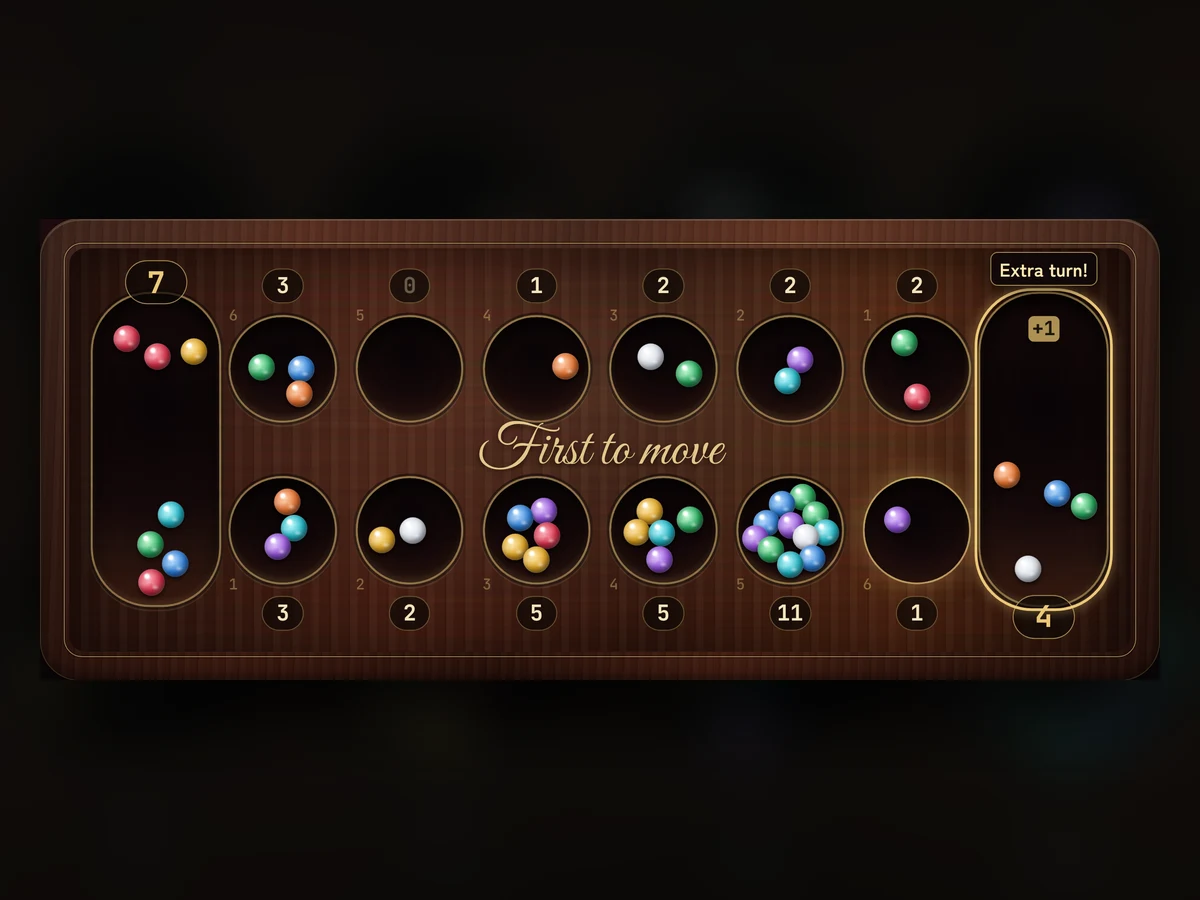
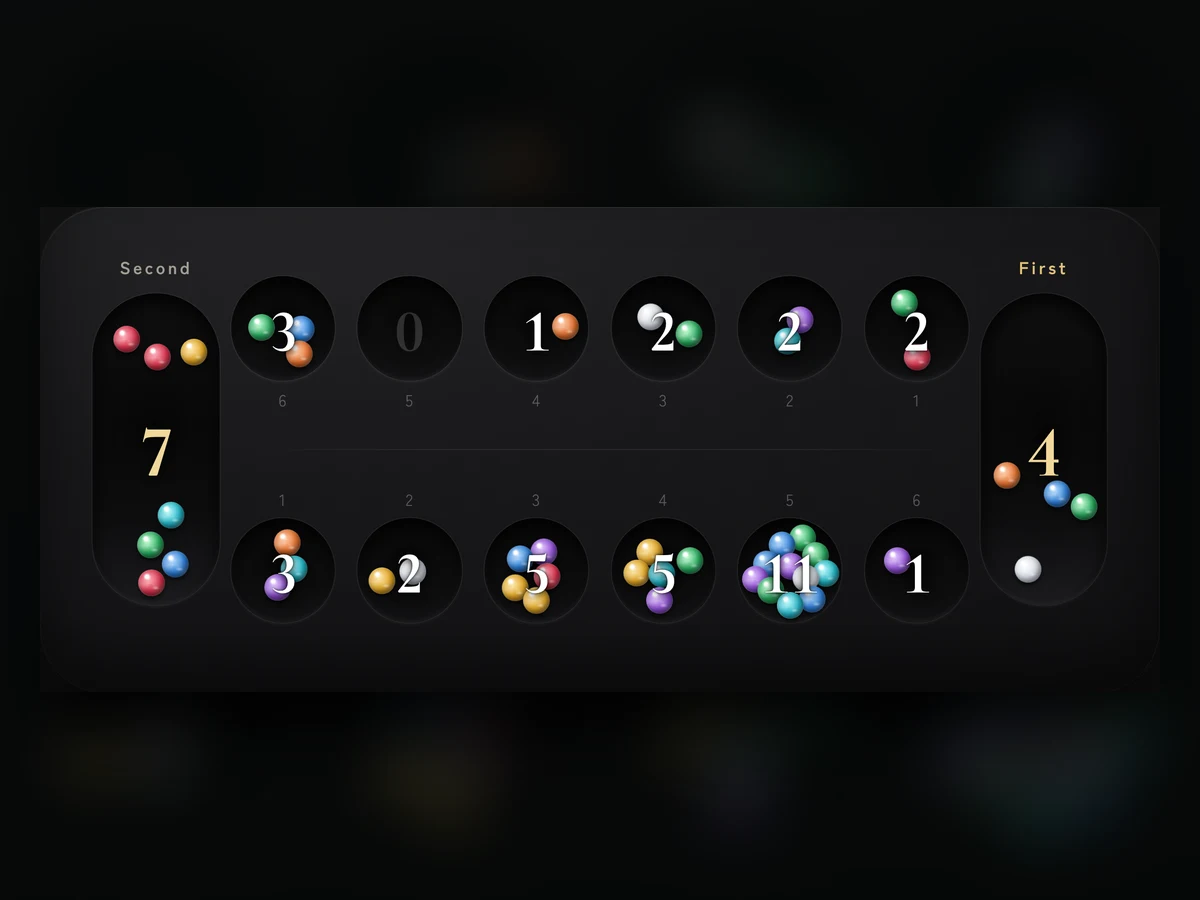
Mancala: black-luxe redesign after the original (stacked PC layout, counts inside pits), in-bowl rolling physics, smoother phone sowing, wider messages
Claude-Session: https://claude.ai/code/session_01Ky461YoVpACBBys6RwWYFn

diff --git a/mancala/app.js b/mancala/app.js
@@ -133,7 +133,7 @@ function sWrong() { const a = ctx(); if (!a) return; const t0 = a.currentTime; t
 
 // ====================================================================== board geometry
 const boardEl = $('#board'), slotsEl = $('#slots'), seedsEl = $('#seeds'), fxEl = $('#fx');
-const BW = 9.2, BH = 3.5;
+const BW = 9.2, BH = 3.7;
 let vert = false, U = 60;
 const isStore = i => i === 6 || i === 13;
 const ownerOf = i => i <= 6 ? 0 : 1;
@@ -141,18 +141,19 @@ const pitIndex = (side, k) => (side ? 7 : 0) + k;
 function bottomSide() { return (settings.mode === 'ai' && !lesson && !puzzle) ? game.human : 0; }
 function slotUV(i) {
   const B = bottomSide(), own = ownerOf(i), bottom = own === B;
-  if (isStore(i)) return { x: bottom ? 8.45 : 0.75, y: 1.75, bottom };
+  if (isStore(i)) return { x: bottom ? 8.45 : 0.75, y: 1.85, bottom };
   const k = own ? i - 7 : i;
-  return bottom ? { x: 1.85 + 1.1 * k, y: 2.45, bottom } : { x: 7.35 - 1.1 * k, y: 1.05, bottom };
+  return bottom ? { x: 1.85 + 1.1 * k, y: 2.9, bottom } : { x: 7.35 - 1.1 * k, y: 0.8, bottom };
 }
 // phone portrait: the board is turned a quarter counter-clockwise, so sowing stays counter-clockwise,
 // your pits are the right column and your store is at the top
 const toPx = (x, y) => vert ? [y * U, (BW - x) * U] : [x * U, y * U];
 const offPx = (dx, dy) => vert ? [dy * U, -dx * U] : [dx * U, dy * U];
 function slotPx(i) { const p = slotUV(i); return toPx(p.x, p.y); }
-let slotEls = [], badgeEls = [], pitNoEls = [];
+let slotEls = [], badgeEls = [], pitNoEls = [], storeLbl = [];
 function buildBoard() {
   slotsEl.innerHTML = ''; slotEls = []; badgeEls = []; pitNoEls = [];
+  storeLbl = [0, 1].map(() => { const d = document.createElement('div'); d.className = 'slabel'; slotsEl.appendChild(d); return d; });
   for (let i = 0; i < 14; i++) {
     const s = document.createElement('div'); s.className = 'slot ' + (isStore(i) ? 'store' : 'pit'); s.dataset.i = i;
     slotsEl.appendChild(s); slotEls.push(s);
@@ -176,11 +177,11 @@ function layout() {
     s.style.left = x + 'px'; s.style.top = y + 'px';
     if (isStore(i)) { const w = 1.1 * U, h = 2.7 * U; s.style.width = (vert ? h : w) + 'px'; s.style.height = (vert ? w : h) + 'px'; }
     else { s.style.width = s.style.height = 0.9 * U + 'px'; }
-    const by = isStore(i) ? (p.bottom ? 3.2 : 0.3) : (p.bottom ? 3.17 : 0.33);
-    const [bx, byy] = toPx(p.x, by); badgeEls[i].style.left = bx + 'px'; badgeEls[i].style.top = byy + 'px';
-    if (pitNoEls[i]) { const [nx, ny] = toPx(p.x - 0.43, p.y + (p.bottom ? 0.47 : -0.47)); pitNoEls[i].style.left = nx + 'px'; pitNoEls[i].style.top = ny + 'px'; }
+    badgeEls[i].style.left = x + 'px'; badgeEls[i].style.top = (y + 0.03 * U) + 'px';   // the count sits inside the cup, over the gems
+    if (pitNoEls[i]) { const [nx, ny] = toPx(p.x, p.y + (p.bottom ? -0.62 : 0.62)); pitNoEls[i].style.left = nx + 'px'; pitNoEls[i].style.top = ny + 'px'; }
   }
-  const [tx, ty] = toPx(4.6, 1.76); const tl = $('#turnLbl'); tl.style.top = ty + 'px';
+  const [tx, ty] = toPx(4.6, 1.85); const tl = $('#turnLbl'); tl.style.top = ty + 'px';
+  [6, 13].forEach((st, j) => { const p = slotUV(st), [lx, ly] = toPx(p.x, 0.26); storeLbl[j].style.left = lx + 'px'; storeLbl[j].style.top = ly + 'px'; storeLbl[j].dataset.st = st; });
   for (let i = 0; i < 14; i++) for (const s of seeds[i]) posSeed(s);
   renderFx();
 }
@@ -241,7 +242,7 @@ function syncSeeds(b) {
   for (const s of pool) s.el.remove();
   setBadges(b);
 }
-function resetSeeds() { for (let i = 0; i < 14; i++) { for (const s of seeds[i]) s.el.remove(); seeds[i] = []; } gemRs = 7; }
+function resetSeeds() { stopPhysics(); for (let i = 0; i < 14; i++) { for (const s of seeds[i]) s.el.remove(); seeds[i] = []; } gemRs = 7; }
 let shownCounts = new Int8Array(14);
 function setBadges(b, popAt) {
   for (let i = 0; i < 14; i++) {
@@ -259,16 +260,31 @@ let wakers = new Set();
 function nap(ms) { return new Promise(r => { const f = () => { clearTimeout(tm); wakers.delete(f); r(); }; const tm = setTimeout(f, ms); wakers.add(f); }); }
 function fly(s, to, dur, lift) {
   const [x0, y0] = seedXY(s);
-  if (to.slot !== undefined) { s.slot = to.slot; s.x = to.x; s.y = to.y; }
+  if (to.slot !== undefined) { s.slot = to.slot; s.x = to.x; s.y = to.y; s.vx = 0; s.vy = 0; }
   const [x1, y1] = seedXY(s);
-  if (!motionOn() || !s.el.animate) { posSeed(s); return; }
-  const mx = (x0 + x1) / 2, my = (y0 + y1) / 2 - (lift || 0.45) * U;
+  if (!s.el.animate) { posSeed(s); return; }
   s.el.classList.add('fly');
   const done = () => { s.el.classList.remove('fly'); posSeed(s); };
-  const a = s.el.animate([
-    { transform: `translate(${x0}px,${y0}px) scale(1)` },
-    { transform: `translate(${mx}px,${my}px) scale(1.35)`, offset: 0.5 },
-    { transform: `translate(${x1}px,${y1}px) scale(1)` }], { duration: dur, easing: 'cubic-bezier(.35,.1,.3,1)' });
+  let kf;
+  if (!motionOn()) {   // reduced motion: a short straight glide, no hop
+    kf = [{ transform: `translate(${x0}px,${y0}px)` }, { transform: `translate(${x1}px,${y1}px)` }];
+    dur = Math.min(dur, 220);
+  } else {
+    let mx = (x0 + x1) / 2, my = (y0 + y1) / 2;
+    const h = (lift || 0.45) * U;
+    if (vert) {
+      // upright board: the arc bulges sideways, away from the middle of the board
+      const dx = x1 - x0, dy = y1 - y0, L = Math.hypot(dx, dy) || 1; let nx = -dy / L, ny = dx / L;
+      const cx = boardEl.clientWidth / 2; if ((mx - cx) * nx < 0) { nx = -nx; ny = -ny; }
+      mx += nx * h * 0.8; my += ny * h * 0.8 - h * 0.25;
+    } else my -= h;
+    kf = [
+      { transform: `translate(${x0}px,${y0}px) scale(1)`, easing: 'cubic-bezier(.3,.0,.5,1)' },
+      { transform: `translate(${mx}px,${my}px) scale(1.32)`, offset: 0.48, easing: 'cubic-bezier(.5,0,.75,1)' },
+      { transform: `translate(${x1}px,${y1}px) scale(.94)`, offset: 0.86, easing: 'ease-out' },
+      { transform: `translate(${x1}px,${y1}px) scale(1)` }];   // soft landing
+  }
+  const a = s.el.animate(kf, { duration: dur });
   s.el.style.transform = `translate(${x1}px,${y1}px)`;
   a.onfinish = done; a.oncancel = done;
 }
@@ -287,6 +303,7 @@ let animTok = 0;
 async function animateMove(b, side, k, rules) {
   const tr = E.trace(b, side, k, rules);
   lastAnimBoard = tr.board;
+  stopPhysics();
   const tok = ++animTok;
   if (!animOn()) { syncSeeds(tr.board); sDrop(false); return tr; }
   animating = true; boardEl.classList.add('animating');
@@ -376,36 +393,82 @@ function showBanner(text, sub, cls) {
 }
 
 // ====================================================================== gems roll when brushed (mouse over a pit, or a finger sliding across)
+// Each touched cup gets a tiny 2-D simulation: the brush gives nearby gems a push, then they roll with friction,
+// bounce off each other and off the cup wall (a circle for pits, a pill for stores) and come to rest.
 let lastBrush = null;
-function brushAt(x, y, now) {
-  if (!motionOn() || animating || !U) return;
-  const r = boardEl.getBoundingClientRect(), bx = x - r.left, by = y - r.top;
-  let vx = 0, vy = 0;
-  if (lastBrush && now - lastBrush.t < 120) { vx = bx - lastBrush.x; vy = by - lastBrush.y; }
-  lastBrush = { x: bx, y: by, t: now };
-  const sp = Math.hypot(vx, vy); if (sp < 0.5) return;
-  const reach = 0.3 * U;
-  for (let i = 0; i < 14; i++) for (const s of seeds[i]) {
-    if (s.el.classList.contains('fly')) continue;
-    const [sx, sy] = seedXY(s), dx = sx - bx, dy = sy - by, d = Math.hypot(dx, dy);
-    if (d > reach || (s.jt && now - s.jt < 260)) continue;
-    s.jt = now;
-    const k = (1 - d / reach) * Math.min(1, sp / 14), push = 0.075 * U * k;
-    // roll along the brush direction, a little away from the finger
-    const ux = (vx / sp) * 0.75 + (dx / (d || 1)) * 0.25, uy = (vy / sp) * 0.75 + (dy / (d || 1)) * 0.25;
-    const px = ux * push, py = uy * push, rot = (vx >= 0 ? 1 : -1) * 120 * k;
-    const base = `translate(${sx}px,${sy}px)`;
-    s.el.animate([
-      { transform: base + ' rotate(0deg)' },
-      { transform: `translate(${sx + px}px,${sy + py}px) rotate(${rot}deg)`, offset: 0.3 },
-      { transform: `translate(${sx - px * 0.35}px,${sy - py * 0.35}px) rotate(${-rot * 0.4}deg)`, offset: 0.62 },
-      { transform: `translate(${sx + px * 0.12}px,${sy + py * 0.12}px) rotate(${rot * 0.25}deg)`, offset: 0.84 },
-      { transform: base + ' rotate(0deg)' }], { duration: 620, easing: 'ease-out' });
+const physSlots = new Set();
+let physRAF = 0, physLast = 0;
+function slotAtPx(bx, by) {
+  for (let i = 0; i < 14; i++) {
+    const [cx, cy] = slotPx(i), ox = bx - cx, oy = by - cy;
+    const lx = vert ? -oy / U : ox / U, ly = vert ? ox / U : oy / U;   // offset in the horizontal frame
+    if (isStore(i) ? (Math.abs(lx) < 0.56 && Math.abs(ly) < 1.36) : Math.hypot(lx, ly) < 0.47) return { i, lx, ly };
   }
+  return null;
 }
+function brushAt(x, y, now) {
+  if (!motionOn() || animating || !U) { lastBrush = null; return; }
+  const r = boardEl.getBoundingClientRect(), bx = x - r.left, by = y - r.top;
+  const prev = lastBrush; lastBrush = { x: bx, y: by, t: now };
+  if (!prev || now - prev.t > 120 || now === prev.t) return;
+  const dt = (now - prev.t) / 1000;
+  let vx = (bx - prev.x) / U / dt, vy = (by - prev.y) / U / dt;      // u per second, screen frame
+  if (vert) { const hx = -vy, hy = vx; vx = hx; vy = hy; }           // to the horizontal frame
+  const sp = Math.hypot(vx, vy); if (sp < 0.15) return;
+  if (sp > 6) { vx *= 6 / sp; vy *= 6 / sp; }
+  const hit = slotAtPx(bx, by); if (!hit) return;
+  let touched = false;
+  for (const s of seeds[hit.i]) {
+    if (s.el.classList.contains('fly')) continue;
+    const dx = s.x - hit.lx, dy = s.y - hit.ly, d = Math.hypot(dx, dy);
+    if (d > 0.24) continue;
+    const k = 1 - d / 0.24;
+    s.vx = (s.vx || 0) + vx * 0.5 * k + (dx / (d || 1)) * 0.6 * k;
+    s.vy = (s.vy || 0) + vy * 0.5 * k + (dy / (d || 1)) * 0.6 * k;
+    touched = true;
+  }
+  if (touched) { physSlots.add(hit.i); if (!physRAF) { physLast = performance.now(); physRAF = requestAnimationFrame(physStep); } }
+}
+function physStep(now) {
+  const dt = Math.min(0.033, (now - physLast) / 1000); physLast = now;
+  for (const i of [...physSlots]) {
+    const list = seeds[i], st = isStore(i), n = list.length;
+    const d = Math.min(0.215, Math.sqrt((st ? 0.8 * 2.38 : Math.PI * 0.31 * 0.31) / (Math.max(1, n) * 0.92)));
+    let moving = false;
+    for (const s of list) {
+      s.vx = s.vx || 0; s.vy = s.vy || 0;
+      // carved bowl: a gentle pull toward the centre, rolling friction
+      if (!st) { s.vx -= s.x * 2.2 * dt; s.vy -= s.y * 2.2 * dt; }
+      const f = Math.exp(-2.6 * dt); s.vx *= f; s.vy *= f;
+      s.x += s.vx * dt; s.y += s.vy * dt;
+    }
+    for (let a = 0; a < n; a++) for (let b = a + 1; b < n; b++) {   // gem-to-gem collisions
+      const A = list[a], B = list[b], dx = B.x - A.x, dy = B.y - A.y, dd = Math.hypot(dx, dy);
+      if (dd >= d || dd === 0) continue;
+      const nx = dx / dd, ny = dy / dd, ov = (d - dd) / 2;
+      A.x -= nx * ov; A.y -= ny * ov; B.x += nx * ov; B.y += ny * ov;
+      const rv = (B.vx - A.vx) * nx + (B.vy - A.vy) * ny;
+      if (rv < 0) { const j = -0.85 * rv; A.vx -= j * nx; A.vy -= j * ny; B.vx += j * nx; B.vy += j * ny; }
+    }
+    for (const s of list) {                                          // the wall of the cup
+      if (st) {
+        if (Math.abs(s.x) > 0.4) { s.x = Math.sign(s.x) * 0.4; s.vx *= -0.45; }
+        if (Math.abs(s.y) > 1.19) { s.y = Math.sign(s.y) * 1.19; s.vy *= -0.45; }
+      } else {
+        const r = Math.hypot(s.x, s.y);
+        if (r > 0.31) { const nx = s.x / r, ny = s.y / r; s.x = nx * 0.31; s.y = ny * 0.31; const vn = s.vx * nx + s.vy * ny; if (vn > 0) { s.vx -= 1.5 * vn * nx; s.vy -= 1.5 * vn * ny; } }
+      }
+      if (Math.hypot(s.vx, s.vy) > 0.02) moving = true; else { s.vx = 0; s.vy = 0; }
+      posSeed(s);
+    }
+    if (!moving) physSlots.delete(i);
+  }
+  physRAF = physSlots.size ? requestAnimationFrame(physStep) : 0;
+}
+function stopPhysics() { physSlots.clear(); if (physRAF) cancelAnimationFrame(physRAF); physRAF = 0; for (let i = 0; i < 14; i++) for (const s of seeds[i]) { s.vx = 0; s.vy = 0; } }
 boardEl.addEventListener('pointermove', e => { if (e.pointerType === 'mouse') brushAt(e.clientX, e.clientY, performance.now()); });
 boardEl.addEventListener('pointerleave', () => { lastBrush = null; });
-// touchmove keeps firing while the page scrolls, so a finger sliding over the pits rolls the gems without blocking scrolling
+// touchmove keeps firing while the page scrolls, so a finger sliding over the cups rolls the gems without blocking scrolling
 boardEl.addEventListener('touchmove', e => { const tc = e.touches[0]; if (tc) brushAt(tc.clientX, tc.clientY, performance.now()); }, { passive: true });
 boardEl.addEventListener('touchend', () => { lastBrush = null; }, { passive: true });
 
@@ -442,14 +505,14 @@ function drawPreview(i) {
   const tr = E.trace(p.b, p.side, i % 7, game.rules);
   const cnt = new Map(), relays = [];
   for (const ev of tr.events) { if (ev.t === 'drop') cnt.set(ev.at, (cnt.get(ev.at) || 0) + 1); if (ev.t === 'pick' && ev.relay) relays.push(ev.at); }
-  for (const [at, n] of cnt) { const u = slotUV(at); fxAt(at, isStore(at) ? 0 : 0.31, isStore(at) ? (u.bottom ? -1.05 : 1.05) : (u.bottom ? 0.3 : -0.3), 'chip', '+' + n); }
+  for (const [at, n] of cnt) { const u = slotUV(at); fxAt(at, isStore(at) ? 0 : 0.33, isStore(at) ? (u.bottom ? 1.05 : -1.05) : (u.bottom ? -0.3 : 0.3), 'chip', '+' + n); }
   relays.forEach((at, j) => fxAt(at, -0.3, 0.3, 'chip relay', '↻' + (j + 1)));
-  if (tr.over) { fxRing(tr.land, ''); const u = slotUV(tr.land); fxAt(tr.land, 0, u.bottom ? -0.62 : -0.55, 'tip plain', t('pv.end')); return; }
+  const tipAt = (at, cls, txt) => { const u = slotUV(at); if (isStore(at)) return fxAt(at, vert ? (u.bottom ? -1.55 : 1.55) : 0, vert ? 0 : -0.2, cls, txt); return fxAt(at, 0, u.bottom ? -0.52 : 0.52, cls + (u.bottom ? '' : ' below'), txt); };
+  if (tr.over) { fxRing(tr.land, ''); tipAt(tr.land, 'tip plain', t('pv.end')); return; }
   fxRing(tr.land, tr.extra ? 'ok' : tr.cap ? '' : '');
   const u = slotUV(tr.land);
-  const ty = isStore(tr.land) ? -1.42 : -0.55;
-  if (tr.extra) { if (vert && isStore(tr.land)) fxAt(tr.land, u.bottom ? -1.55 : 1.55, 0, 'tip', t('pv.extra')); else fxAt(tr.land, 0, ty, 'tip', t('pv.extra')); }
-  else if (tr.cap) { fxRing(tr.capFrom, 'cap'); fxAt(tr.land, 0, u.bottom ? ty : ty, 'tip cap', t('pv.cap', { n: tr.cap + (E.RULES[game.rules].cap === 2 ? 1 : 0) })); }
+  if (tr.extra) tipAt(tr.land, 'tip', t('pv.extra'));
+  else if (tr.cap) { fxRing(tr.capFrom, 'cap'); tipAt(tr.land, 'tip cap', t('pv.cap', { n: tr.cap + (E.RULES[game.rules].cap === 2 ? 1 : 0) })); }
 }
 function setHover(i) {
   hoverPit = i;
@@ -504,7 +567,12 @@ function renderPlates(b) {
     $('#stat' + w).textContent = st;
   });
 }
+function renderStoreLabels() {
+  if (!storeLbl.length) return;
+  for (const d of storeLbl) { const st = +d.dataset.st, side = st === 6 ? 0 : 1; d.textContent = shortName(side); d.classList.toggle('me', !puzzle && !lesson ? (settings.mode === 'ai' ? side === game.human : side === 0) : side === 0); }
+}
 function renderTurnLabel() {
+  renderStoreLabels();
   const p = shownPos(), el = $('#turnLbl');
   let txt = '';
   if (p.over) { const a = p.b[6], o = p.b[13]; txt = a === o ? t('res.draw') : (settings.mode === 'ai' && !lesson && !puzzle) ? ((a > o ? 0 : 1) === game.human ? t('res.youWin') : t('res.aiWin')) : t('res.pWin', { c: shortName(a > o ? 0 : 1) }); }
@@ -1440,8 +1508,8 @@ function fixSize() {
   if (W === fixW && portrait === fixPortrait) return;   // height-only change (browser bars): keep the size
   fixW = W; fixPortrait = portrait;
   root.setProperty('--vh', H + 'px');
-  if (portrait) root.setProperty('--u', Math.floor(Math.min((W - 24) / 4, (H - 172) / 9.7, 100)) + 'px');
-  else if (H <= 560 || W <= 900) root.setProperty('--u', Math.floor(Math.min((H - 20 - 2 * 32 - 16) / 4, (W - 300) / 9.7, 110)) + 'px');
+  if (portrait) root.setProperty('--u', Math.floor(Math.min((W - 24) / 4.2, (H - 172) / 9.7, 100)) + 'px');
+  else if (H <= 560 || W <= 900) root.setProperty('--u', Math.floor(Math.min((H - 20 - 2 * 32 - 16) / 4.2, (W - 300) / 9.7, 110)) + 'px');
   else root.removeProperty('--u');
 }
 fixSize();

diff --git a/mancala/index.html b/mancala/index.html
@@ -27,8 +27,8 @@
   --gap: clamp(24px, 3vw, 48px);
   --plate: 50px;
   /* the board is 9.2u x 3.5u inside a 0.25u frame */
-  --u: min((var(--vh) - var(--pad) * 2 - var(--plate) * 2 - 28px) / 4, (100vw - var(--pad) * 2 - var(--gap) - 380px) / 9.7, 118px);
-  --bw: calc(var(--u) * 9.2); --bh: calc(var(--u) * 3.5);
+  --u: min((var(--vh) - var(--pad) * 2 - var(--plate) * 2 - 28px) / 4.2, (100vw - var(--pad) * 2 - var(--gap) - 380px) / 9.7, 118px);
+  --bw: calc(var(--u) * 9.2); --bh: calc(var(--u) * 3.7);
 }
 *{box-sizing:border-box;margin:0;padding:0}
 @supports (height:100dvh){:root{--vh:100dvh}}
@@ -389,7 +389,7 @@ bdi{unicode-bidi:isolate}
 }
 @media (max-aspect-ratio: 1/1) and (pointer: coarse){
   /* phone portrait: the board stands upright (stores at top and bottom) */
-  :root{--plate:40px;--u:min((100vw - 24px) / 4, (var(--vh) - 196px) / 9.7, 100px);--bw:calc(var(--u) * 3.5);--bh:calc(var(--u) * 9.2)}
+  :root{--plate:40px;--u:min((100vw - 24px) / 4.2, (var(--vh) - 196px) / 9.7, 100px);--bw:calc(var(--u) * 3.7);--bh:calc(var(--u) * 9.2)}
   html,body{overflow-x:hidden;overflow-y:auto;height:auto}
   .app{display:flex;flex-direction:column;align-items:center;justify-content:flex-start;gap:8px;padding:10px 10px max(16px, env(safe-area-inset-bottom));height:auto;min-height:var(--vh)}
   .side, .side-in{display:contents}
@@ -418,7 +418,7 @@ bdi{unicode-bidi:isolate}
 }
 @media (min-aspect-ratio: 1/1) and (pointer: coarse) and (max-height: 560px), (min-aspect-ratio: 1/1) and (pointer: coarse) and (max-width: 900px){
   /* phone landscape */
-  :root{--plate:32px;--u:min((var(--vh) - 20px - 2 * var(--plate) - 16px) / 4, (100vw - 300px) / 9.7, 110px)}
+  :root{--plate:32px;--u:min((var(--vh) - 20px - 2 * var(--plate) - 16px) / 4.2, (100vw - 300px) / 9.7, 110px)}
   .app{padding:10px max(14px, env(safe-area-inset-right)) 10px max(14px, env(safe-area-inset-left));gap:16px;grid-template-columns:auto minmax(220px, 340px)}
   .board-area{gap:8px}
   .plate{padding:0 10px;gap:8px;border-radius:9px}
@@ -452,38 +452,33 @@ bdi{unicode-bidi:isolate}
 .brand a.series:hover{opacity:1;color:var(--accent)}
 .brand:has(.brand-l){align-items:flex-end}
 @media (pointer: coarse) and (max-width: 900px){ .brand a.series{display:none} .brand:has(.brand-l){align-items:center} }
-/* ================================================================ PC: board across the full width, cards below */
+/* ================================================================ PC: player bars around the board, menu row, two cards */
 @media not all and (pointer: coarse){
   :root{
-    --plate:40px; --tb:50px;
-    --R:clamp(150px, calc(var(--vh) * .2), 200px);
-    --u:min((100vw - 56px) / 9.7, (var(--vh) - 28px - 48px - var(--plate) - 8px - 3 * 14px - var(--tb) - var(--R)) / 4, 136px);
+    --plate:clamp(34px, calc(var(--vh) * .046), 42px); --tb:clamp(40px, calc(var(--vh) * .054), 48px); --C:clamp(118px, calc(var(--vh) * .19), 176px);
+    --u:min((100vw - 64px) / 9.7, (var(--vh) - 24px - 50px - 2 * var(--plate) - 16px - 3 * 12px - var(--tb) - var(--C)) / 4.2, 132px);
   }
-  .app{display:grid;width:min(calc(var(--u) * 9.7), calc(100vw - 32px));margin:0 auto;padding:14px 0;gap:14px;height:var(--vh);
-    grid-template-columns:repeat(3,minmax(0,1fr));grid-template-rows:auto auto var(--tb) minmax(0,1fr);
-    grid-template-areas:"brand brand brand" "board board board" "ctrl ctrl ctrl" "eval eval kifu";align-content:stretch;justify-content:stretch}
-  .app:has(.review-card.show){grid-template-areas:"brand brand brand" "board board board" "ctrl ctrl ctrl" "eval rv kifu"}
+  html,body{overflow-y:auto}
+  .app{display:grid;width:min(calc(var(--u) * 9.7), calc(100vw - 32px));margin:0 auto;padding:12px 0;gap:12px;height:auto;min-height:var(--vh);
+    grid-template-columns:repeat(6,minmax(0,1fr));grid-template-rows:auto auto var(--tb) var(--C);
+    grid-template-areas:"brand brand brand brand brand brand" "board board board board board board" "ctrl ctrl ctrl ctrl ctrl ctrl" "eval eval eval kifu kifu kifu";align-content:center}
+  .app:has(.review-card.show){grid-template-areas:"brand brand brand brand brand brand" "board board board board board board" "ctrl ctrl ctrl ctrl ctrl ctrl" "eval eval rv rv kifu kifu"}
   .side,.side-in{display:contents}
-  .brand{grid-area:brand;align-items:flex-end!important;padding:0 4px}
-  .brand h1{font-size:34px!important}
-  .board-area{grid-area:board;display:grid;grid-template-columns:1fr 1fr;grid-template-areas:"pt pb" "fr fr";gap:8px 14px}
-  #plateTop{grid-area:pt}
-  #plateBot{grid-area:pb;flex-direction:row-reverse}
-  #plateBot .pstat{margin-left:0;margin-right:auto}
-  #plateBot .pscore{text-align:left}
-  .frame{grid-area:fr;justify-self:center}
-  .controls{grid-area:ctrl;display:flex;gap:8px;padding:6px;align-items:stretch;align-self:stretch;min-height:0}
-  .controls .btn{flex:1;flex-direction:row;justify-content:center;gap:7px;padding:0 6px;font-size:12.5px;border-radius:10px}
+  .brand{grid-area:brand;align-items:flex-end!important;padding:0 2px}
+  .brand h1{font-size:36px!important}
+  .board-area{grid-area:board;display:flex;flex-direction:column;gap:8px}
+  .frame{align-self:center}
+  .controls{grid-area:ctrl;display:flex;gap:8px;padding:0;background:none!important;border:none!important;box-shadow:none!important;align-self:stretch}
+  .controls .btn{flex:1;flex-direction:row;justify-content:center;gap:8px;padding:0 6px;font-size:13px;border-radius:12px}
   .controls .btn svg{width:18px;height:18px}
   .info-line{grid-area:brand;justify-self:end;align-self:end;margin:0 190px 7px 0;max-width:calc(100% - 640px);font-size:11.5px;color:var(--muted);letter-spacing:.04em}
-  #evalCard{grid-area:eval;display:flex;flex-direction:column;min-height:0!important;align-self:stretch;overflow:hidden;padding:12px 14px}
-  #evalCard .graph{flex:1 1 0;height:0!important;min-height:24px;margin-top:8px}
+  #evalCard{grid-area:eval;display:flex;flex-direction:column;min-height:0!important;align-self:stretch;overflow:hidden;padding:12px 16px}
+  #evalCard .graph{flex:1 1 0;height:0!important;min-height:22px;margin-top:8px}
   #evalCard .navbar{margin-top:6px}
   .review-card.show{grid-area:rv;min-height:0!important;flex:none;align-self:stretch;padding:12px 14px}
-  .kifu-card{grid-area:kifu;min-height:0!important;align-self:stretch;overflow:hidden;padding:12px 14px}
-  .kifu{grid-template-columns:repeat(6,1fr)}
-  /* lessons & puzzles take the whole area under the board: text on the left, buttons on the right */
-  body.in-lesson .lesson-card, body.in-puzzle .puzzle-card{grid-area:3 / 1 / 5 / 4;display:grid;grid-template-columns:minmax(0,1fr) minmax(260px,330px);grid-auto-rows:min-content;column-gap:24px;overflow-y:auto;min-height:0;align-content:start}
+  .kifu-card{grid-area:kifu;min-height:0!important;align-self:stretch;overflow:hidden;padding:12px 16px}
+  .kifu{grid-template-columns:repeat(8,1fr)}
+  body.in-lesson .lesson-card, body.in-puzzle .puzzle-card{grid-area:3 / 1 / 5 / 7;display:grid;grid-template-columns:minmax(0,1fr) minmax(260px,330px);grid-auto-rows:min-content;column-gap:24px;overflow-y:auto;min-height:0;align-content:start}
   .lesson-card > :not(.lesson-actions), .puzzle-card > :not(.lesson-actions){grid-column:1}
   .lesson-card > .lesson-actions{grid-column:2;grid-row:1 / span 4;flex-direction:column;align-self:center;margin-top:0}
   .puzzle-card > .lesson-actions{grid-column:2;margin-top:8px}
@@ -492,6 +487,55 @@ bdi{unicode-bidi:isolate}
   .lesson-card h3,.puzzle-card h3{margin:2px 0 6px}
   .lesson-fb,.pz-status{min-height:0}
 }
+/* ================================================================ black luxe (after the original Luxe Mancala) */
+:root{--bg:#0c0c0d; --panel:#151516; --panel2:#1d1d1f; --line:#2a2a2d; --text:#f3eee6; --muted:#a49e95; --dim:#6e6962; --brass:#c9a961; --brass2:#8a7448; --accent:#e3c27a}
+body{background:radial-gradient(1300px 700px at 50% -25%, #222224 0%, transparent 62%),linear-gradient(180deg,#131314,#09090a)!important}
+.card{background:linear-gradient(180deg,#19191b,#121213)!important;border:1px solid #29292c!important;box-shadow:0 18px 40px -26px rgba(0,0,0,.9),inset 0 1px 0 rgba(255,255,255,.035)!important}
+.plate{background:linear-gradient(180deg,#19191b,#121213)!important;border:1px solid #29292c;border-radius:14px}
+.plate.active{border-color:rgba(201,169,97,.65);box-shadow:0 0 0 1px rgba(201,169,97,.15),0 10px 28px -14px rgba(226,194,117,.35)}
+.plate .pscore{font-family:'Cormorant Garamond','Shippori Mincho B1',serif;font-weight:700;font-size:30px;font-variant-numeric:lining-nums tabular-nums;font-feature-settings:'lnum' 1}
+.frame{border-radius:calc(var(--u) * .55);
+  background:radial-gradient(140% 160% at 25% -10%, #262628 0%, #18181a 42%, #0d0d0e 100%)!important;
+  box-shadow:0 46px 90px -34px rgba(0,0,0,.95),inset 0 1px 0 rgba(255,255,255,.07),inset 0 -30px 60px rgba(0,0,0,.5),0 0 0 1px rgba(255,255,255,.045)!important}
+.frame::before{display:none}
+.board{background:none!important;box-shadow:none!important;overflow:hidden}
+.board::after{display:none}
+.board::before{content:"";position:absolute;left:16%;right:16%;top:50%;height:1px;background:linear-gradient(90deg,transparent,rgba(255,255,255,.07) 25%,rgba(255,255,255,.07) 75%,transparent);pointer-events:none}
+.vert .board::before{left:50%;right:auto;top:16%;bottom:16%;width:1px;height:auto;background:linear-gradient(180deg,transparent,rgba(255,255,255,.07) 25%,rgba(255,255,255,.07) 75%,transparent)}
+.slot{background:radial-gradient(circle at 50% 42%,#060607 0%,#0e0e0f 55%,#18181a 84%,#222225 100%)!important;
+  box-shadow:inset 0 calc(var(--u) * .08) calc(var(--u) * .18) rgba(0,0,0,.95),inset 0 calc(var(--u) * -.02) calc(var(--u) * .04) rgba(255,255,255,.06),0 0 0 1px rgba(255,255,255,.055),0 calc(var(--u) * .025) calc(var(--u) * .03) rgba(255,255,255,.035)!important}
+.slot.store{border-radius:999px!important}
+.slot.pit.can:hover,.slot.pit.can.hov{box-shadow:inset 0 calc(var(--u) * .08) calc(var(--u) * .18) rgba(0,0,0,.95),0 0 0 2px rgba(226,194,117,.7),0 0 calc(var(--u) * .28) rgba(226,194,117,.3)!important}
+.badge,.badge.store{background:none;border:none;min-width:0;height:auto;padding:0;z-index:35;line-height:1;font-variant-numeric:lining-nums tabular-nums;font-feature-settings:'lnum' 1;
+  font-family:'Cormorant Garamond','Shippori Mincho B1',serif;font-weight:700;font-size:calc(var(--u) * .52);color:#fff;
+  text-shadow:0 2px 8px rgba(0,0,0,.9),0 0 2px rgba(0,0,0,.95)}
+.badge.store{font-size:calc(var(--u) * .64);color:#f1d89c}
+.badge.zero{color:rgba(255,255,255,.16);text-shadow:none}
+.pitno{color:rgba(255,255,255,.3);font-size:calc(var(--u) * .14);font-family:'Zen Kaku Gothic New',sans-serif;letter-spacing:.05em}
+.slabel{position:absolute;transform:translate(-50%,-50%);font-size:calc(var(--u) * .15);letter-spacing:.16em;font-weight:700;color:var(--muted);pointer-events:none;white-space:nowrap;z-index:30}
+.slabel.me{color:var(--accent)}
+.vert .slabel{display:none}
+.turnlbl{color:#ecd08e;text-shadow:0 0 18px rgba(226,194,117,.4),0 2px 6px rgba(0,0,0,.7)}
+.turnlbl.script{font-family:'Cormorant Garamond',serif;font-style:italic;font-weight:600;font-size:calc(var(--u) * .5)}
+.tip.below{transform:translate(-50%,0)}
+.modal{background:linear-gradient(180deg,#1b1b1d,#111112)!important;border-color:rgba(201,169,97,.32)!important}
+.overlay{background:rgba(0,0,0,.66)!important}
+.mbtn.go,.lesson-actions button.go{background:linear-gradient(180deg,#d1ac55,#a8862f)!important;color:#140f05!important;box-shadow:inset 0 1px 0 rgba(255,255,255,.35),0 8px 18px -10px rgba(201,169,97,.7)!important}
+#btnNew{background:linear-gradient(180deg,#c9a24a,#a1802c);color:#140f05;border-color:transparent}
+#btnNew:hover{filter:brightness(1.08);color:#140f05}
+.btn{background:linear-gradient(180deg,#1a1a1c,#131314);border-color:#2b2b2e}
+.seg{background:#0f0f10}
+.seg button.sel{background:#232326}
+.rulecard{background:#121213}
+.lesson-item{background:#121213}
+/* messages: wide enough to read comfortably */
+.toast{position:fixed!important;width:max-content;max-width:min(560px, 92vw)!important;font-size:15px;line-height:1.55;letter-spacing:.03em;padding:12px 22px;text-wrap:balance;background:rgba(18,18,19,.94)!important;border-color:rgba(201,169,97,.5)!important}
+.coach{width:max-content;max-width:min(560px, 92vw);white-space:normal;text-align:center;font-size:14px;line-height:1.5;padding:7px 16px;text-wrap:balance}
+.banner{font-size:clamp(20px, calc(var(--u) * .36), 34px)}
+.lesson-prompt,.ls-goal,.pz-goal{font-size:16px;line-height:1.7}
+.lesson-fb,.pz-status{font-size:15px;line-height:1.75}
+.tip{font-size:clamp(11px, calc(var(--u) * .16), 15px)}
+@media (pointer: fine){.toast{max-width:min(680px, 70vw)!important;font-size:16px}}
 </style>
 </head>
 <body>
